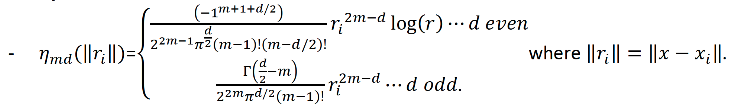
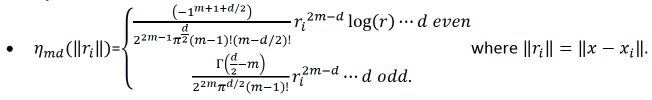
requested updates
(cherry picked from commit 22019d828fa7496b7d298f2c4c183c279c40db7a)

diff --git a/h2o-docs/src/product/data-science/thin_plate_gam.rst b/h2o-docs/src/product/data-science/thin_plate_gam.rst
@@ -26,7 +26,7 @@ Thin plate spline smoothing estimates :math:`g` by finding function :math:`f` by
 
 	.. math::
 
-	 {\parallel{y-f}\parallel}^2 + \lambda J_{md}(f)  Equation 1
+	 {\parallel{y-f}\parallel}^2 + \lambda J_{md}(f) {\text{ }}{\text{ Equation 1}}
 
 where:
 
@@ -34,18 +34,18 @@ where:
 - :math:`f = [f(x_1),f(x_2),...,f(x_n)]^T`,
 - :math:`J_{md}(f)` is a penalty measure of wiggliness of :math:`f`,
 - :math:`\lambda` is the smoothing parameter (scale parameter) controlling the tradeoff between data fitting and smoothness of :math:`f`,
-- :math:`J_{md}(f) = {\int_R{d\sum_{\gamma_1+\gamma_2+...+\gamma_d={\frac{m!}{m \gamma_1! \gamma_2!...\gamma_d!}}{({\frac{d^mf}{dx_1dx_2...dx_d}})}^2}}}dx_1 dx_2...dx_d`, 
+- :math:`J_{md}(f) = {\int_{R^d}{\sum_{\gamma_1+\gamma_2+...+\gamma_d={\frac{m!}{\gamma_1! \gamma_2!...\gamma_d!}}{({\frac{d^mf}{dx_1dx_2...dx_d}})}^2}}}dx_1 dx_2...dx_d`, 
 - :math:`m = floor(\frac{d+1}{2})+1`.
 
-The function :math:`f` that minimizes :math:`{\parallel{y-f}\parallel}^2 + \lambda J_{md}(f) Equation 1` has the following form:
+The function :math:`f` that minimizes Equation 1 has the following form:
 
 	.. math::
 
-	 {\hat{f}}(x) = {\sum_{i=1}^n}\delta_i \eta_{md}({\parallel{x-x_i}\parallel}) + {\sum_{j=1}^M}\alpha_j \phi_j (x) Equation 2
+	 {\hat{f}}(x) = {\sum_{i=1}^n}\delta_i \eta_{md}({\parallel{x-x_i}\parallel}) + {\sum_{j=1}^M}\alpha_j \phi_j (x) {\text{ }}{\text{ Equation 2}}
 
 which is subject to the constraint :math:`T^T\delta = 0` where each element of :math:`T` is :math:`T_{ij} = \phi_j (x_i)` and where:
 
-- :math:`M = {\frac{(m+d-1)!}{d!(m-1)}}`;
+- :math:`M = {\frac{(m+d-1)!}{d!(m-1)!}}`;
 - :math:`\phi_j` are the polynomial basis functions with order = 0,1,...,m-1;
 
 .. figure:: ../images/gam_constraint.png
@@ -62,7 +62,7 @@ Instead of using all the data points in the training set, only a subset of knots
 
 	.. math::
 
-	 {\hat{f}}(x) = {\sum_{i=1}^k}\delta_i \eta_{md}({\parallel{x-x_i}\parallel})+{\sum_{j=1}^M}\alpha_j \phi_j (x) Equation 3
+	 {\hat{f}}(x) = {\sum_{i=1}^k}\delta_i \eta_{md}({\parallel{x-x_i}\parallel})+{\sum_{j=1}^M}\alpha_j \phi_j (x) {\text{ }}{\text{ Equation 3}}
 
 where :math:`k` is the number of knots. The coefficients :math:`\delta = (\delta_1,\delta_2,...,\delta_k)^T`, :math:`\alpha = (\alpha_1, \alpha_2,..., \alpha_M)^T` can be obtained by minimizing the following objective function:
 
@@ -72,7 +72,7 @@ where :math:`k` is the number of knots. The coefficients :math:`\delta = (\delta
 
 where:
 
-- :math:`\beta^T = (\delta^T , \alpha^2)`;
+.. figure:: ../images/gam_beta.png
 
 .. figure:: ../images/gam_chi_matrix.png
 	:scale: 50%
